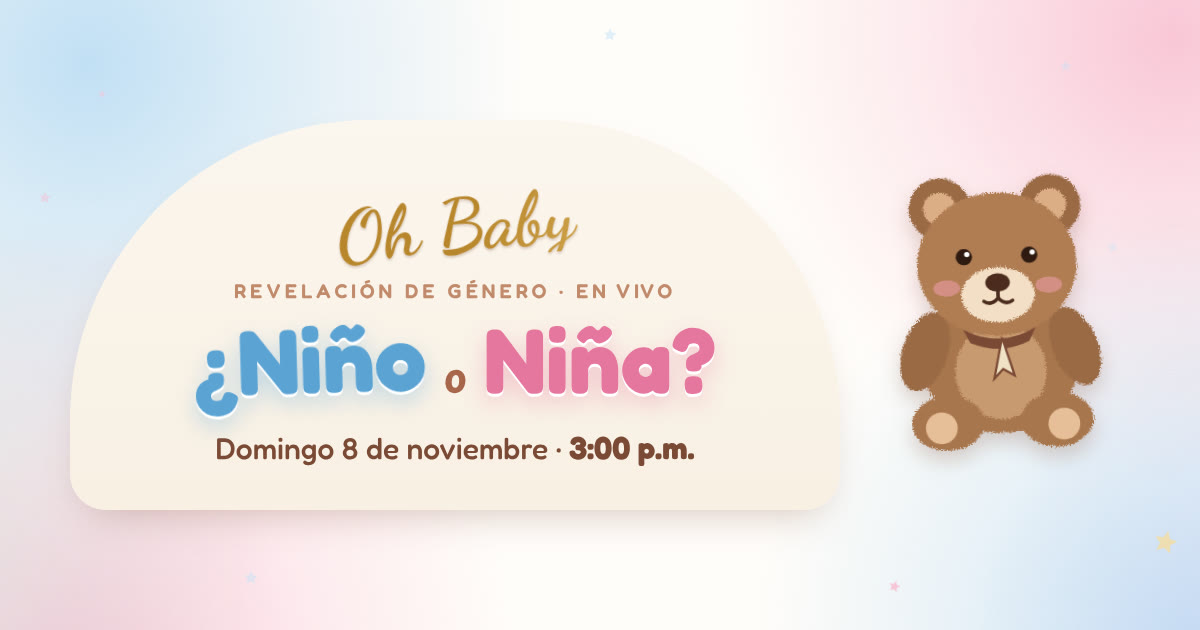
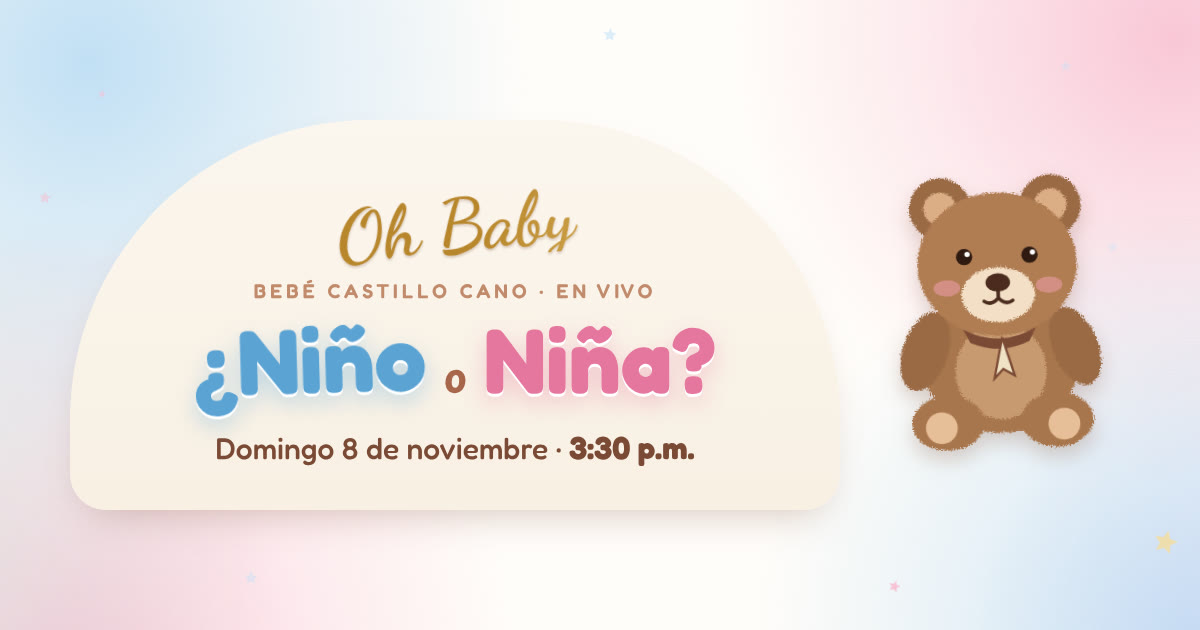
Agregar la videollamada de Google Meet y mover la hora a las 3:30 p.m.
Meet no se puede incrustar, así que la sección En vivo muestra un botón
para unirse, el número de teléfono con PIN y el enlace a más números.
El evento queda de 3:30 a 6:00 p.m. (hora Colombia) en la página, el
calendario, el mensaje para compartir y la imagen de vista previa.

Claude-Session: https://claude.ai/code/session_011BWymwi3j4KRmJc7q1V6sn

Changed region(s): [[0.185, 0.4524, 0.555, 0.4825], [0.4933, 0.6937, 0.5242, 0.7238]]

diff --git a/revelacion/app.js b/revelacion/app.js
@@ -6,14 +6,18 @@
   "use strict";
 
   var DEFAULTS = {
-    inicio: "2026-11-08T15:00:00-05:00",
-    duracionHoras: 3,
+    inicio: "2026-11-08T15:30:00-05:00",
+    duracionHoras: 2.5,
     youtube: "",
     facebook: "",
     url: "",
     formato: "horizontal",
     revelado: "",
-    whatsapp: ""
+    whatsapp: "",
+    meet: "",
+    meetTelefono: "",
+    meetPin: "",
+    meetMasNumeros: ""
   };
   var POLL_MS = 30000;
   var VOTES_POLL_MS = 15000;
@@ -90,6 +94,7 @@
       updatePhase();
       checkReveal();
       updatePhotoLinks();
+      initCalendar();
     });
   }
 
@@ -124,9 +129,36 @@
     if (cfg.url && /^https:\/\//.test(cfg.url)) return { src: cfg.url, open: cfg.url };
     return null;
   }
+  // Google Meet no se puede mostrar dentro de una página: se ofrece un botón para entrar
+  function meetUrl() {
+    var u = String(cfg.meet || "").trim();
+    return /^https:\/\/meet\.google\.com\//.test(u) ? u : "";
+  }
+  function updateMeet() {
+    var url = meetUrl(), box = $("#phMeet");
+    box.hidden = !url || !!getEmbed();
+    $("#playerFrame").classList.toggle("meet-mode", !box.hidden);
+    if (!url) return;
+    $("#meetLink").href = url;
+    var tel = String(cfg.meetTelefono || ""), pin = String(cfg.meetPin || "");
+    var dial = $(".ph-dial");
+    dial.hidden = !tel;
+    if (tel) {
+      $("#meetTel").textContent = "(CO) " + tel;
+      // marca el número y luego el PIN automáticamente
+      $("#meetTel").href = "tel:" + tel.replace(/[^\d+]/g, "") + (pin ? ",," + pin.replace(/[^\d]/g, "") + "%23" : "");
+      $("#meetPin").textContent = pin;
+    }
+    var more = $("#meetMore");
+    more.hidden = !/^https:\/\//.test(cfg.meetMasNumeros || "");
+    if (!more.hidden) more.href = cfg.meetMasNumeros;
+  }
+  function hasLive() { return !!getEmbed() || !!meetUrl(); }
+
   function updatePlayer() {
     var frame = $("#playerFrame");
     frame.classList.toggle("vertical", String(cfg.formato).toLowerCase() === "vertical");
+    updateMeet();
 
     var e = getEmbed();
     var key = e ? e.src : "";
@@ -180,14 +212,15 @@
   var lastPhase = "";
   function updatePhase() {
     var now = Date.now(), st = startMs(), en = endMs();
-    var hasStream = !!getEmbed();
+    var hasStream = hasLive();
+    var isMeet = !getEmbed() && !!meetUrl();
     var revealed = normTeam(cfg.revelado);
     var phase;
     if (now >= en) phase = "fin";
     else if (now >= st - 30 * 60000) phase = hasStream ? "vivo" : "casi";
     else phase = "pronto";
 
-    var key = phase + "|" + hasStream + "|" + revealed;
+    var key = phase + "|" + hasStream + "|" + isMeet + "|" + revealed;
     if (key === lastPhase) return;
     lastPhase = key;
     Sound.setLive(phase === "vivo");
@@ -205,11 +238,24 @@
     }
 
     var lead = $("#liveLead");
-    if (phase === "vivo") lead.textContent = "¡Estamos en vivo! Sube el volumen 🔊 y celebra con nosotros.";
+    if (phase === "vivo") lead.textContent = isMeet
+      ? "¡Estamos en vivo por Google Meet! Toca el botón verde para entrar 🎉"
+      : "¡Estamos en vivo! Sube el volumen 🔊 y celebra con nosotros.";
     else if (phase === "fin") lead.textContent = "Gracias por acompañarnos en este momento tan especial.";
     else lead.textContent = "Desde donde estés, acompáñanos en este momento tan especial.";
 
-    if (!hasStream) {
+    if (isMeet) {
+      if (phase === "vivo") {
+        $("#phTitle").textContent = "¡Estamos en vivo! Entra ya 🎉";
+        $("#phSub").textContent = "Toca el botón para unirte a la videollamada";
+      } else if (phase === "fin") {
+        $("#phTitle").textContent = "¡Gracias por acompañarnos!";
+        $("#phSub").textContent = "Pronto compartiremos el video de este día.";
+      } else {
+        $("#phTitle").textContent = "Únete por Google Meet 🎥";
+        $("#phSub").textContent = "Domingo 8 de noviembre · 3:30 a 6:00 p.m.";
+      }
+    } else if (!hasStream) {
       if (phase === "casi") {
         $("#phTitle").textContent = "¡Ya casi! Estamos preparando la cámara 🎥";
         $("#phSub").textContent = "La transmisión aparecerá aquí sola, no cierres la página.";
@@ -218,7 +264,7 @@
         $("#phSub").textContent = "Pronto compartiremos el video de este día.";
       } else {
         $("#phTitle").textContent = "La transmisión aparecerá aquí";
-        $("#phSub").textContent = "Domingo 8 de noviembre · 3:00 p.m.";
+        $("#phSub").textContent = "Domingo 8 de noviembre · 3:30 p.m.";
       }
     }
   }
@@ -786,7 +832,7 @@
 
   /* ---------------- Compartir, calendario, invitación ---------------- */
   function initShare() {
-    var msg = "🧸💙💗 ¡Acompáñanos EN VIVO a descubrir si nuestro bebé es niño o niña!\n📅 Domingo 8 de noviembre · 3:00 p.m.\n👉 " + PAGE_URL;
+    var msg = "🧸💙💗 ¡Acompáñanos EN VIVO a descubrir si el Bebé Castillo Cano es niño o niña!\n📅 Domingo 8 de noviembre · 3:30 p.m. (hora Colombia)\n👉 " + PAGE_URL;
     $("#waLink").href = "https://wa.me/?text=" + encodeURIComponent(msg);
 
     var copyBtn = $("#copyLink");
@@ -807,16 +853,16 @@
       var ns = $("#nativeShare");
       ns.hidden = false;
       ns.addEventListener("click", function () {
-        navigator.share({ title: "¿Niño o Niña? · Revelación en vivo", text: "¡Acompáñanos en vivo! Domingo 8 de noviembre · 3:00 p.m.", url: PAGE_URL }).catch(function () { /* cancelado */ });
+        navigator.share({ title: "¿Niño o Niña? · Revelación en vivo", text: "¡Acompáñanos en vivo! Domingo 8 de noviembre · 3:30 p.m.", url: PAGE_URL }).catch(function () { /* cancelado */ });
       });
     }
   }
   function initCalendar() {
     var toG = function (ms) { return new Date(ms).toISOString().replace(/[-:]/g, "").replace(/\.\d{3}/, ""); };
     var url = "https://calendar.google.com/calendar/render?action=TEMPLATE" +
-      "&text=" + encodeURIComponent("Revelación de género 🧸 ¿Niño o Niña?") +
+      "&text=" + encodeURIComponent("Revelación Bebé Castillo Cano 🧸 ¿Niño o Niña?") +
       "&dates=" + toG(startMs()) + "/" + toG(endMs()) +
-      "&details=" + encodeURIComponent("Transmisión en vivo 🎥\nSi eres Team Niño ponte una camiseta azul 💙 · Si eres Team Niña una rosada 💗 ¡y envíanos tu foto! 📸\nEn vivo: " + PAGE_URL) +
+      "&details=" + encodeURIComponent((meetUrl() ? "Únete por Google Meet: " + meetUrl() + "\n" : "") + "Transmisión en vivo 🎥\nSi eres Team Niño ponte una camiseta azul 💙 · Si eres Team Niña una rosada 💗 ¡y envíanos tu foto! 📸\nEn vivo: " + PAGE_URL) +
       "&location=" + encodeURIComponent(PAGE_URL);
     $("#calLink").href = url;
   }

diff --git a/revelacion/index.html b/revelacion/index.html
@@ -4,13 +4,13 @@
   <meta charset="utf-8">
   <meta name="viewport" content="width=device-width, initial-scale=1, viewport-fit=cover">
   <title>¿Niño o Niña? · Revelación en vivo</title>
-  <meta name="description" content="Acompáñanos en vivo a descubrir si nuestro bebé es niño o niña. Domingo 8 de noviembre, 3:00 p.m.">
+  <meta name="description" content="Revelación Bebé Castillo Cano: acompáñanos en vivo por Google Meet a descubrir si es niño o niña. Domingo 8 de noviembre, 3:30 p.m.">
   <meta name="theme-color" content="#fbe3ec">
 
   <meta property="og:type" content="website">
   <meta property="og:locale" content="es_CO">
-  <meta property="og:title" content="¿Niño o Niña? 🧸 Revelación de género en vivo">
-  <meta property="og:description" content="Domingo 8 de noviembre · 3:00 p.m. ¡Acompáñanos en vivo a descubrirlo! 💙💗">
+  <meta property="og:title" content="¿Niño o Niña? 🧸 Revelación Bebé Castillo Cano · En vivo">
+  <meta property="og:description" content="Domingo 8 de noviembre · 3:30 p.m. ¡Únete en vivo por Google Meet! 💙💗">
   <meta property="og:url" content="https://mirevelacion8nov.vercel.app/">
   <meta property="og:image" content="https://mirevelacion8nov.vercel.app/assets/og.jpg">
   <meta property="og:image:width" content="1200">
@@ -121,13 +121,13 @@
         <svg class="garland" id="garland" aria-hidden="true"></svg>
         <div class="arch" id="arch">
           <p class="oh-baby" aria-hidden="true">Oh Baby</p>
-          <p class="eyebrow">Revelación de género</p>
+          <p class="eyebrow">Revelación · Bebé Castillo Cano</p>
           <h1 id="heroTitle">
             <span class="t-nino">¿Niño</span>
             <span class="t-o">o</span>
             <span class="t-nina">Niña?</span>
           </h1>
-          <p class="hero-date">Domingo 8 de noviembre<br><strong>3:00 p.m.</strong> <span class="tz">(hora Colombia)</span></p>
+          <p class="hero-date">Domingo 8 de noviembre<br><strong>3:30 p.m.</strong> <span class="tz">(hora Colombia)</span></p>
           <p class="local-time" id="localTime" hidden></p>
 
           <div class="countdown" id="countdown" role="timer" aria-label="Cuenta regresiva">
@@ -170,8 +170,13 @@
             <div class="ph-glow" aria-hidden="true"></div>
             <svg class="ph-bear" aria-hidden="true"><use href="#bear"/></svg>
             <p class="ph-title" id="phTitle">La transmisión aparecerá aquí</p>
-            <p class="ph-sub" id="phSub">Domingo 8 de noviembre · 3:00 p.m.</p>
+            <p class="ph-sub" id="phSub">Domingo 8 de noviembre · 3:30 p.m.</p>
             <p class="ph-count" id="phCount"></p>
+            <div class="ph-meet" id="phMeet" hidden>
+              <a class="btn btn-meet" id="meetLink" href="#" target="_blank" rel="noopener"><svg viewBox="0 0 24 24" width="20" height="20" aria-hidden="true"><rect x="2.5" y="6" width="13" height="12" rx="3" fill="currentColor"/><path d="M16.5 10.2l5-3v9.6l-5-3z" fill="currentColor"/></svg> Unirme a la videollamada</a>
+              <p class="ph-dial">¿Sin internet? Marca <a id="meetTel" href="#"></a><br>PIN: <b id="meetPin"></b></p>
+              <a class="ph-more" id="meetMore" href="#" target="_blank" rel="noopener">Más números de teléfono</a>
+            </div>
           </div>
         </div>
         <div class="hearts" id="hearts" aria-hidden="true"></div>
@@ -222,11 +227,11 @@
         <p class="big-date">Domingo 8<br>de noviembre</p>
 
         <p class="label">Hora:</p>
-        <p class="value spaced">3:00 p.m.</p>
+        <p class="value spaced">3:30 a 6:00 p.m.</p>
         <p class="value spaced small">(hora Colombia)</p>
 
         <p class="label">¿Dónde?</p>
-        <p class="value spaced strong">En vivo, aquí<br>en esta página 🎥</p>
+        <p class="value spaced strong">En vivo por<br>Google Meet 🎥</p>
 
         <div class="card-actions">
           <a class="btn btn-soft" id="calLink" target="_blank" rel="noopener" href="#">

diff --git a/revelacion/styles.css b/revelacion/styles.css
@@ -359,6 +359,21 @@ h1.is-revealed small { font-family: var(--f-script); font-weight: 400; font-size
 .ph-sub { position: relative; margin: 0; font-size: clamp(.82rem, 3.2vw, 1rem); color: var(--brown); }
 .ph-count { position: relative; margin: 8px 0 0; padding: 4px 14px; border-radius: 999px; background: rgba(255,255,255,.8); font-family: var(--f-head); font-weight: 600; font-size: clamp(.85rem, 3.4vw, 1.05rem); color: var(--pink-ink); font-variant-numeric: tabular-nums; }
 .ph-count:empty { display: none; }
+.player-frame.meet-mode .player { aspect-ratio: auto; }
+.player-frame.meet-mode .placeholder { position: relative; inset: auto; min-height: 360px; padding: 30px 18px; }
+.ph-meet { position: relative; display: flex; flex-direction: column; align-items: center; gap: 10px; margin-top: 16px; }
+.btn-meet {
+  color: #fff; font-size: 1.08rem; padding: 14px 24px;
+  background: linear-gradient(135deg, #1a8f5b, #2fb47a);
+  box-shadow: 0 14px 28px -12px rgba(26,143,91,.7);
+  animation: meetpulse 2.2s ease-in-out infinite;
+}
+.btn-meet:hover { transform: translateY(-2px); }
+@keyframes meetpulse { 0%, 100% { box-shadow: 0 14px 28px -12px rgba(26,143,91,.7), 0 0 0 0 rgba(47,180,122,.45); } 50% { box-shadow: 0 14px 28px -12px rgba(26,143,91,.7), 0 0 0 12px rgba(47,180,122,0); } }
+.ph-dial { margin: 2px 0 0; font-size: .9rem; color: var(--brown-deep); line-height: 1.5; }
+.ph-dial a { color: var(--brown-deep); font-weight: 700; }
+.ph-dial b { font-variant-numeric: tabular-nums; letter-spacing: .04em; }
+.ph-more { font-size: .82rem; color: var(--brown); }
 
 .peek { position: absolute; width: 92px; height: 106px; z-index: 3; pointer-events: none; filter: drop-shadow(0 8px 10px rgba(122,74,53,.25)); }
 .peek-left { left: -26px; top: -62px; transform: rotate(-14deg); animation: peekL 4s ease-in-out infinite; }
